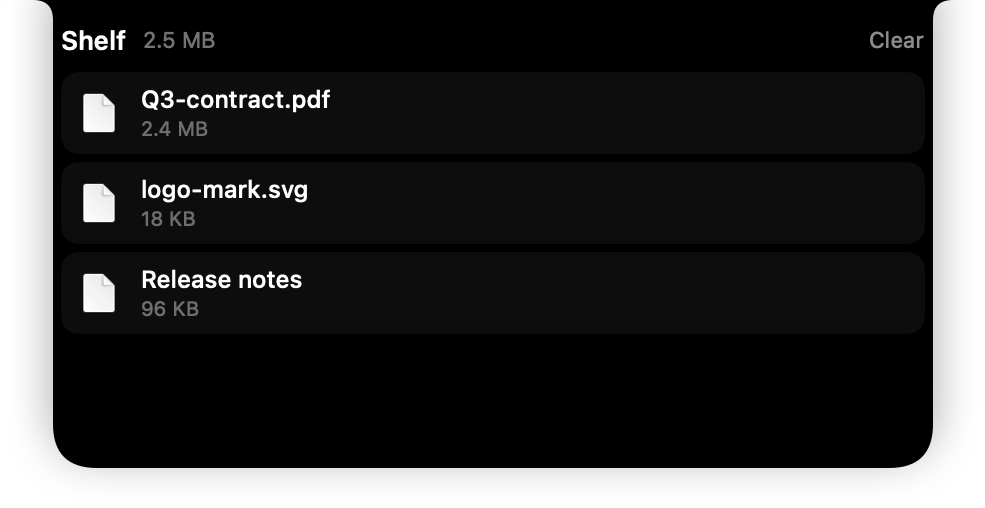
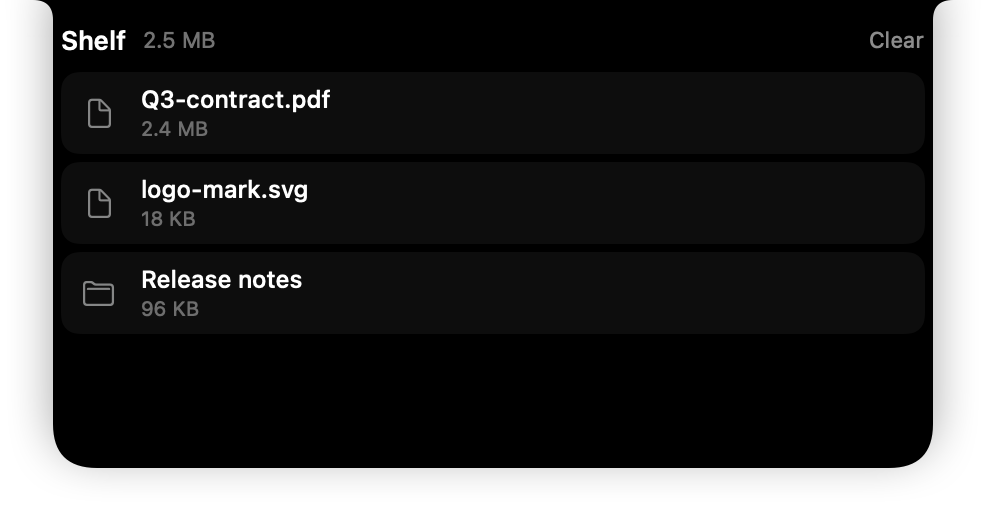
feat(site): a comparison page per competitor (#21)
WEBSITE-PLAN.md §9 step 9 asked for one page per competitor — the pages
people actually search for. The footer's "vs Boring Notch", "vs NotchNook"
and so on all pointed at the same anchor on the home page.

Seven pages now, generated by build.js from Website/data/comparison.json.
Generated rather than written, because the home page's matrix and seven
separate pages would drift apart the first time a price changed, and these go
public.

Every page names something that competitor does better, in its own card,
above the table. That is not politeness. WEBSITE-PLAN §8 rule 2 says never to
rubbish the field, and the audience for a "Perch vs X" page can tell an
argument from a sales sheet — the moment one of these reads like a sales
sheet, nobody believes the rest of the site either. Alcove's motion is better
than ours. Seam has dictation and we do not. TopNotch solves the opposite
problem and solves it perfectly.

Each page carries the date its prices were checked and says that if it
disagrees with the vendor's own site, the vendor is right and this is a bug.

The pages are gitignored, for the same reason Perch.xcodeproj is: they are
output. `make site` runs build.js first, so the links do not 404 locally
while working in production — which is the worst way round for a bug to be.

Also fixes a heading-order violation the generated template introduced (h1
straight to h3) and restores the build-injected issue count in index.html to
[…]

Changed region(s): [[0.0609, 0.5315, 0.1218, 0.6201], [0.0609, 0.3543, 0.1218, 0.4429], [0.0609, 0.1772, 0.1218, 0.2657]]

diff --git a/Website/build.js b/Website/build.js
@@ -82,6 +82,143 @@ if (issues !== undefined) {
 
 await writeFile(path, html)
 
+// ---------------------------------------------------------------------
+// The per-competitor pages (#18, WEBSITE-PLAN §9 step 9).
+//
+// Generated from data/comparison.json rather than written by hand, so the
+// matrix on the home page and seven separate pages cannot drift apart —
+// which they would, the first time a price changed.
+//
+// Every page names something the competitor does better. That is not
+// politeness, it is §8 rule 2: the audience for these pages can tell the
+// difference between an argument and a sales sheet, and the moment one of
+// these reads like a sales sheet nobody believes the rest of the site.
+// ---------------------------------------------------------------------
+
+const escape = (value) =>
+  String(value).replace(/[&<>"']/g, (c) =>
+    ({ '&': '&amp;', '<': '&lt;', '>': '&gt;', '"': '&quot;', "'": '&#39;' })[c])
+
+async function comparison() {
+  try {
+    return JSON.parse(await readFile(join(here, 'data', 'comparison.json'), 'utf8'))
+  } catch {
+    return null
+  }
+}
+
+function comparePage(data, app) {
+  const perch = data.apps.find((a) => a.us)
+  const rows = data.capabilities
+    .map((capability, index) => {
+      const ours = perch.values[index]
+      const theirs = app.values[index]
+      return `        <tr>
+          <th scope="row">${escape(capability)}</th>
+          <td class="us">${escape(ours)}</td>
+          <td>${escape(theirs)}</td>
+        </tr>`
+    })
+    .join('\n')
+
+  const checked = new Date(data.checked).toLocaleDateString('en-GB', {
+    day: 'numeric', month: 'long', year: 'numeric',
+  })
+
+  return `<!DOCTYPE html>
+<html lang="en" data-theme="light">
+<head>
+<meta charset="utf-8">
+<meta name="viewport" content="width=device-width, initial-scale=1, viewport-fit=cover">
+<meta name="theme-color" content="#f5f5f7">
+<title>Perch vs ${escape(app.name)} | Perch</title>
+<meta name="description" content="An honest, feature-by-feature comparison of Perch and ${escape(app.name)} — including what ${escape(app.name)} does better.">
+<link rel="canonical" href="https://milanpatel35.github.io/Perch/compare-${app.id}.html">
+<link rel="icon" type="image/svg+xml" href="assets/img/perch-mark.svg">
+<link rel="stylesheet" href="assets/site.css">
+</head>
+<body>
+
+<header>
+  <div class="wrap">
+    <div class="navbar">
+      <a class="brand" href="index.html"><img src="assets/img/perch-mark.svg" alt="" width="28" height="28">Perch</a>
+      <nav class="navlinks">
+        <a href="index.html#features">Features</a>
+        <a href="index.html#compare">Compare</a>
+        <a href="index.html#source">Source</a>
+        <a href="index.html#price">Price</a>
+      </nav>
+      <a class="pillbtn" href="index.html#price">Download</a>
+    </div>
+  </div>
+</header>
+
+<main>
+<section class="sec">
+  <div class="wrap">
+    <p class="eyebrow">Compare</p>
+    <h1>Perch and ${escape(app.name)}</h1>
+    <p class="lead">
+      Checked against ${escape(app.name)}'s own site on ${escape(checked)}.
+      Prices move; if this page disagrees with theirs, theirs is right and
+      <a href="https://github.com/Milanpatel35/Perch/issues/new">this is a bug</a>.
+    </p>
+
+    <div class="grid3">
+      <div class="card">
+        <h2>What ${escape(app.name)} does better</h2>
+        <p>${escape(app.credit)}</p>
+      </div>
+      <div class="card">
+        <h2>Where Perch differs</h2>
+        <p>${escape(app.difference)}</p>
+      </div>
+      <div class="card">
+        <h2>The honest summary</h2>
+        <p>Perch is free and the source is public, so you can check every row of this table yourself. That is the whole argument.</p>
+      </div>
+    </div>
+
+    <div class="tablecard" style="margin-top:34px">
+      <div class="scroller" tabindex="0" role="region" aria-label="Perch compared with ${escape(app.name)}">
+      <table>
+        <thead><tr>
+          <th scope="col"><span class="sr-only">Capability</span></th>
+          <th scope="col" class="us">Perch</th>
+          <th scope="col">${escape(app.name)}</th>
+        </tr></thead>
+        <tbody>
+${rows}
+        </tbody>
+      </table>
+      </div>
+    </div>
+
+    <p class="srcmeta">
+      <a href="index.html#compare">All eight compared</a> ·
+      ${app.site ? `<a href="${escape(app.site)}">${escape(app.name)}'s own site</a> · ` : ''}
+      <a href="https://github.com/Milanpatel35/Perch/blob/dev/docs/COMPARISON.md">The long version</a>
+    </p>
+  </div>
+</section>
+</main>
+
+</body>
+</html>
+`
+}
+
+const data = await comparison()
+if (data) {
+  const others = data.apps.filter((app) => !app.us)
+  await Promise.all(
+    others.map((app) =>
+      writeFile(join(here, `compare-${app.id}.html`), comparePage(data, app))),
+  )
+  console.log(`site: wrote ${others.length} comparison pages`)
+}
+
 console.log(
   `site: version=${tag ?? 'unchanged'} ` +
     `stars=${repo?.stargazers_count ?? 'unchanged'} ` +

diff --git a/Website/index.html b/Website/index.html
@@ -428,7 +428,7 @@
 
     <p class="srcmeta">
       MIT licence · version <span data-gh="version">0.3.0</span> ·
-      <span data-gh="issues">5</span> open issues ·
+      <span data-gh="issuesPhrase">open issues</span> ·
       <a href="https://github.com/Milanpatel35/Perch/blob/dev/LICENSE">Read the licence</a>
     </p>
   </div>
@@ -516,10 +516,13 @@
       <div>
         <h3>Compare</h3>
         <ul>
-          <li><a href="#compare">vs Boring Notch</a></li>
-          <li><a href="#compare">vs NotchNook</a></li>
-          <li><a href="#compare">vs Seam</a></li>
-          <li><a href="#compare">vs Alcove</a></li>
+          <li><a href="compare-boring-notch.html">vs Boring Notch</a></li>
+          <li><a href="compare-seam.html">vs Seam</a></li>
+          <li><a href="compare-alcove.html">vs Alcove</a></li>
+          <li><a href="compare-notchnook.html">vs NotchNook</a></li>
+          <li><a href="compare-dynamiclake-pro.html">vs DynamicLake Pro</a></li>
+          <li><a href="compare-notchbay.html">vs NotchBay</a></li>
+          <li><a href="compare-topnotch.html">vs TopNotch</a></li>
         </ul>
       </div>
     </div>

diff --git a/Website/assets/site.css b/Website/assets/site.css
@@ -304,7 +304,7 @@ footer a:hover{color:var(--ink)}
   background:var(--card);border:1px solid var(--line);
   border-radius:20px;padding:22px 22px 24px;
 }
-.card h3{margin:0 0 8px;font-size:1rem;font-weight:600;letter-spacing:-.01em}
+.card h2,.card h3{margin:0 0 8px;font-size:1rem;font-weight:600;letter-spacing:-.01em}
 .card p{margin:0;color:var(--sub);font-size:.92rem;line-height:1.58}
 
 /* Visible to screen readers, to nobody else. Used by the island's

diff --git a/CLAUDE.md b/CLAUDE.md
@@ -247,6 +247,7 @@ session (human or agent) can resume without re-reading the diff.
 | YYYY-MM-DD | dev | Repo scaffold, docs, marketing site | Phase 1: island panel + notch geometry |
 | 2026-09-20 | dev | Absorbed the full feature set of all seven competitors into a new `FEATURES.md` (18 modules). Added Camera and SystemStats as 1.0 modules. Wrote `WEBSITE-PLAN.md`. Corrected NotchBay's price to $9 and its feature list from its own site. Re-sequenced `PLAN.md` to 9 phases / 17 weeks. Added SYS, CAM, WIN, SHC, VOI, HID test blocks. | Phase 1: island panel + notch geometry. Nothing has been built yet — this is all still planning. |
 | 2026-09-20 | — | Added `RELEASE.md` (branch/version/release contract) and the `add-feature` skill that automates it. Added `pages.yml`, `Scripts/appcast.sh` and `CHANGELOG.md` to `scaffold.sh`. | Run `bash scaffold.sh`, then move the docs into place and push `main` + `dev`. |
+| 2026-09-20 | fix/14-15-16 + feature/18-compare-pages | **Closed four of the five good first issues.** #14 a shelved folder drew a document icon — `NSWorkspace` returns a generic icon for a path that is not there, and `TC-SHF-006` only checked the model. #15 `make screenshots`. #16 the localisation audit, whose premise was wrong: `Text("literal")` is already localisable, and the real gap was user-facing English in `PerchCore`, which `String(localized:)` can never translate from a framework with no string catalog. #18 seven comparison pages generated from `data/comparison.json`. **#17 stays open** — it needs display hardware I do not have, and closing it would be pretending to have checked multi-display behaviour. | **Phase 2.3: HUDs, battery, focus.** |
 | 2026-09-20 | feature/site-open-source | **The contributor funnel.** Built `WEBSITE-PLAN.md` §1 row 9, which had never been built: an open-source section, a GitHub link in the header, and `build.js` injecting the version and issue count at build time rather than from the visitor's browser. Stocked five good first issues so the link is not another empty page — including a real bug found in our own screenshot (a shelved folder draws a document icon, #14). Both themes still pass a full contrast audit. | **Phase 2.3: HUDs, battery, focus.** |
 | 2026-09-20 | feature/site-feature-shots | **Real screenshots.** `IslandSnapshots` hosts `IslandRootView` in an offscreen window and captures it at 2x with the transparent panel trimmed — the shelf and clipboard images on the site are the running UI. Two bugs on the way: rendering the layer directly gave an upside-down image with every list row missing, and a `scaleEffect(2)` on top of the 2x backing store made it 4x with the type drawn twice its real size. Also recorded a structure-only study of notchbay.com in `WEBSITE-PLAN.md` §0.1 — patterns, never copy; §0's rule stands. | **Phase 2.3: HUDs, battery, focus.** |
 | 2026-09-20 | website/2-working-download | **A working download, and a logo.** Published `build-0.3.0` as a pre-release with the universal unsigned app attached — the download buttons led to an empty Releases page before. Drew the mark: a peacock on a perch inside a medallion cut by the notch, Indian folk-painting register, two SVGs in `Resources/Logo` rasterised through headless WebKit into the asset catalog. Menu bar, app icon, island home surface and website brand all use it. Also corrected the hero, which claimed eighteen modules when three are built. | **Phase 2.3: HUDs, battery, focus.** |

diff --git a/docs/WEBSITE-PLAN.md b/docs/WEBSITE-PLAN.md
@@ -519,7 +519,7 @@ Each step is shippable. Do not start the next one until the current one is at
 | 6 | Live demos: camera, then clipboard, then shelf drag-drop, then system | 4 |
 | 7 | `comparison.json` + build script + matrix + regenerate `COMPARISON.md` | 2 |
 | 8 | Privacy, how-it-works, open-source, FAQ, price, footer | 2 |
-| 9 | Seven `compare.html` pages, JSON-LD, OG images, sitemap | 2 |
+| 9 | Seven `compare.html` pages, JSON-LD, OG images, sitemap | 2 | **Pages done** (#18), generated from `data/comparison.json`. JSON-LD, OG images per page and the sitemap are still outstanding. |
 | 10 | New copy pass (§8), proofread, every price re-verified | 1 |
 | 11 | Perf + a11y pass against the §7 budgets; fix until green | 2 |
 | 12 | Press kit, 30-second loop, domain, deploy | 1 |

diff --git a/CHANGELOG.md b/CHANGELOG.md
@@ -8,6 +8,14 @@ The release process that moves `Unreleased` into a version is in RELEASE.md.
 
 ## [Unreleased]
 
+### Added
+- **A comparison page per competitor** (#18), generated by `build.js` from
+  `Website/data/comparison.json` — one source for the home page's matrix and
+  all seven pages, so a price change cannot leave them disagreeing. Each page
+  names something that competitor does better, because `WEBSITE-PLAN.md` §8
+  rule 2 says never to rubbish the field and because the audience for these
+  pages can tell an argument from a sales sheet.
+
 ### Fixed
 - A folder on the shelf drew a document icon (#14). `NSWorkspace` hands back
   a generic icon for a path that is not there, cheerfully, for anything —
